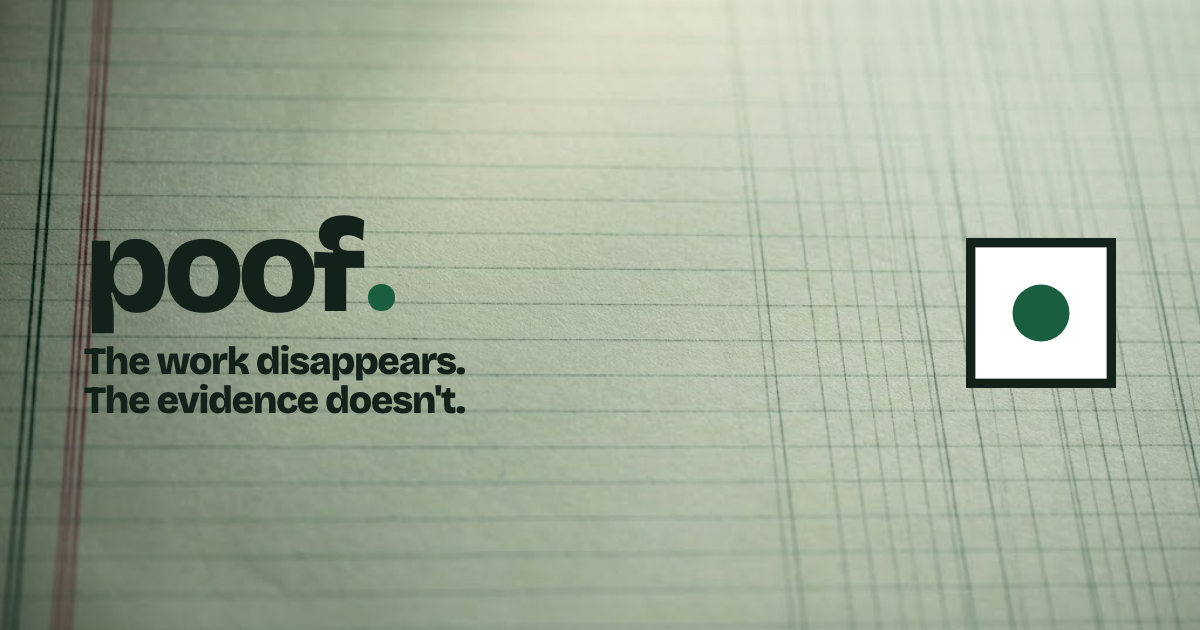
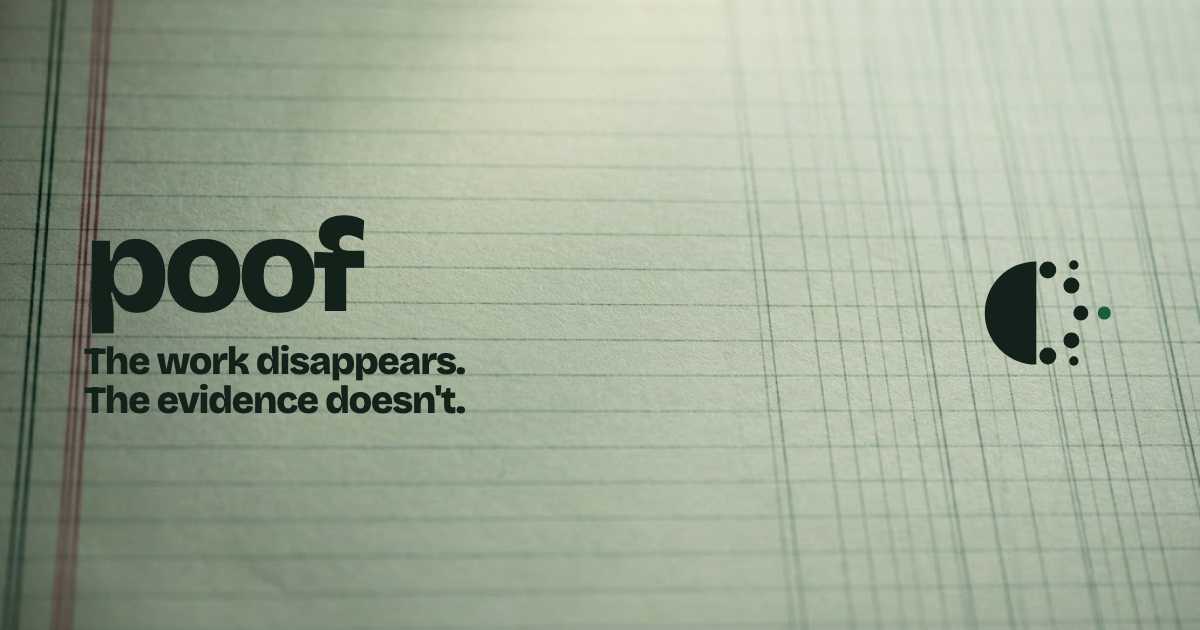
The mark is the dispersing disc (#7)
A half disc whose right side breaks into seven particles on clean spokes,
and one green particle standing alone at the far edge. The wordmark loses
its period; the mark carries the sentence. Favicons, Apple touch icon,
192/512, maskable icon, and the OG image regenerated from the master SVG.
Brand kit's Logo Usage rewritten with the exact geometry.

Changed region(s): [[0.8017, 0.3619, 0.9558, 0.6333], [0.3083, 0.4524, 0.3392, 0.5127]]

diff --git a/src/components/PoofMark.tsx b/src/components/PoofMark.tsx
@@ -1,15 +1,22 @@
 /**
- * The mark: a full stop, boxed. Hard-cornered square outline in ink, centered ledger-green dot
- * about 38% of the box. Same geometry as the app's PoofMark (viewBox 64, rect 2..62, r 12.16).
+ * The mark: a disc dispersing into particles, and one green particle that stayed.
+ * "The work disappears. The evidence doesn't."
+ * Geometry on a 64 grid, identical to public/poof-mark.svg and the app's PoofMark.
  */
 export default function PoofMark({ size = 24, onInk = false, className = '' }: { size?: number; onInk?: boolean; className?: string }) {
-  const stroke = onInk ? '#EEF2EA' : '#12211A'
-  const dot = onInk ? '#A9D8B8' : '#1B5E3F'
-  const fill = onInk ? '#12211A' : '#FFFFFF'
+  const c = onInk ? '#E8EFE9' : '#12211A'
+  const a = onInk ? '#A9D8B8' : '#1B5E3F'
   return (
     <svg width={size} height={size} viewBox="0 0 64 64" className={className} aria-hidden="true" focusable="false">
-      <rect x="2" y="2" width="60" height="60" fill={fill} stroke={stroke} strokeWidth="4" />
-      <circle cx="32" cy="32" r="12.16" fill={dot} />
+      <path d="M30 10 A22 22 0 0 0 30 54 Z" fill={c} />
+      <circle cx="34.92" cy="13.65" r="3.6" fill={c} />
+      <circle cx="44.97" cy="20.30" r="3.4" fill={c} />
+      <circle cx="49" cy="32" r="3.2" fill={c} />
+      <circle cx="44.97" cy="43.70" r="3.4" fill={c} />
+      <circle cx="34.92" cy="50.35" r="3.6" fill={c} />
+      <circle cx="46.01" cy="11.51" r="2" fill={c} />
+      <circle cx="46.01" cy="52.49" r="2" fill={c} />
+      <circle cx="59" cy="32" r="2.8" fill={a} />
     </svg>
   )
 }

diff --git a/src/components/PoofWordmark.tsx b/src/components/PoofWordmark.tsx
@@ -1,29 +1,40 @@
 import Link from 'next/link'
+import PoofMark from './PoofMark'
 
 /**
- * The wordmark: lowercase "poof" in Bricolage Grotesque 800 with a DRAWN period,
- * the same circle as the mark's dot. Never typeset the period (Bricolage's is an oval).
+ * The lockup: the dispersing-disc mark, then "poof" in Bricolage Grotesque 800.
+ * No typed period; the mark carries the sentence.
  */
 export default function PoofWordmark({
   size = 28,
   onInk = false,
   href = '/',
   className = '',
+  markOnly = false,
 }: {
   size?: number
   onInk?: boolean
   href?: string | null
   className?: string
+  markOnly?: boolean
 }) {
-  const mark = (
-    <span className={`poof-wm ${onInk ? 'on-ink' : ''} ${className}`} style={{ fontSize: size }} aria-label="Poof">
-      poof<span className="dot">.</span>
+  const lockup = (
+    <span className={`inline-flex items-center gap-[0.32em] ${className}`} style={{ fontSize: size }} aria-label="Poof">
+      <PoofMark size={Math.round(size * 1.15)} onInk={onInk} />
+      {!markOnly && (
+        <span
+          className={`font-display font-extrabold leading-[0.9] tracking-[-0.05em] ${onInk ? 'text-paper' : 'text-ink'}`}
+          style={{ fontSize: size }}
+        >
+          poof
+        </span>
+      )}
     </span>
   )
-  if (!href) return mark
+  if (!href) return lockup
   return (
     <Link href={href} className="inline-flex items-center" aria-label="Poof home">
-      {mark}
+      {lockup}
     </Link>
   )
 }

diff --git a/BRAND_KIT.md b/BRAND_KIT.md
@@ -204,57 +204,67 @@ The violet → indigo → teal gradient, gradient text, the sparkle icon and its
 
 ## Logo Usage
 
-Poof has two marks: the **wordmark** (the word, set in type, with a drawn period) and the **mark** (a full stop, boxed). Neither is a picture of the word. The wordmark is a component, not an image file.
+> **Decided 2026-09-17.** The boxed full stop and the drawn period are retired. Poof's mark is **the dispersing disc**: a solid half disc whose right side breaks into particles, and one green particle that stayed. The wordmark is the word alone, with no period; the mark carries the sentence.
 
-### The Wordmark
-Lowercase **poof** in Bricolage Grotesque 800, ink on paper. The period is the only colored element, and it is drawn, not typed.
-
-| Property | Value |
-|---|---|
-| **Word** | `poof` — lowercase, always |
-| **Font** | Bricolage Grotesque, weight 800 |
-| **Tracking** | -0.05em |
-| **Line-height** | 0.9 |
-| **Color** | Ink `#12211A` on paper; paper `#EEF2EA` when on ink |
-| **The period** | Drawn: a circle 0.2em wide, sitting on the baseline, 0.07em after the *f*, filled ledger green `#1B5E3F` (light green `#A9D8B8` when the wordmark is on ink) |
-| **Desktop header** | 28px |
-| **Phone header** | 22px |
-| **Auth pages** | 44px |
-| **Footer** | 26px |
-
-- **Bricolage's own full stop is an oval and must not be used.** Never type `poof.`; the component draws the dot.
-- The period is the story — *Poof. It's done.* The work vanishes and the dot is what stays. That is why it is green, and why it is the only color in the word.
-- In running text, **Poof** is capitalized as a word ("Poof prepares the invoice"). The wordmark is not.
+Poof has a **mark** (the dispersing disc) and a **wordmark** (the word, set in type). The lockup is the mark beside the word. The wordmark is a component, not an image file; the mark is an SVG.
 
 ### The Mark
-A full stop, boxed. A hard-cornered square outline in ink with a centered ledger-green dot. Two shapes, so it reads at 16px.
+A disc dispersing into particles. *The work disappears. The evidence doesn't.* The solid half is the work; the particles are it leaving; the single green particle at the far edge is what stayed.
 
 | Property | Value |
 |---|---|
 | **viewBox** | `0 0 64 64` |
-| **Box** | `rect` from 2 to 62 (60 × 60), stroke 4, square corners. On paper: ink `#12211A` stroke, white fill. On ink: paper `#EEF2EA` stroke, ink fill |
-| **Dot** | Circle at the center, `r` 12.16 — about 38% of the box. Ledger green `#1B5E3F` on paper; light green `#A9D8B8` on ink |
-| **App icon** | The same mark. Platform rounding produces the rounded version; do not draw one. The maskable icon has the mark inset 14% on paper |
-| **Stamp** | A rubber-stamp impression of the mark is a motif for "Signed." states and print only. It is never the primary mark |
+| **Disc** | Half disc, center (30, 32), radius 22, flat edge at x = 30, filled ink `#12211A` (paper `#E8EFE9` when on ink) |
+| **Main particles** | Five, on an arc of radius 19 about the disc center at −75°, −38°, 0°, 38°, 75°; radii 3.6 / 3.4 / 3.2 / 3.4 / 3.6 |
+| **Trailers** | Two, on an arc of radius 26 at ±52°, radius 2.0 |
+| **The survivor** | One particle at (59, 32), radius 2.8, ledger green `#1B5E3F` (light green `#A9D8B8` on ink). It is the only colored element and it never touches another particle |
+| **Spacing rule** | No particle overlaps another; every gap is at least 1 unit. The survivor stands alone past everything |
+| **Mono** | When one color is available, the survivor is ink like the rest |
+| **App icon** | The mark on an ink tile, inset 6 units. The maskable icon is inset 9 units |
+| **Favicon** | The mark alone on transparent; 16 and 32 px PNGs, and `favicon.ico` carrying both |
+
+### The Wordmark
+Lowercase **poof** in Bricolage Grotesque 800, ink on paper. **No period.** The mark is the period.
+
+| Property | Value |
+|---|---|
+| **Word** | `poof` — lowercase, always, no punctuation |
+| **Font** | Bricolage Grotesque, weight 800 |
+| **Tracking** | -0.05em |
+| **Line-height** | 0.9 |
+| **Color** | Ink `#12211A` on paper; paper `#EEF2EA` when on ink |
+| **Lockup** | The mark, at 1.15× the type size, then a gap of 0.32em, then the word. Mark and word share a vertical center |
+| **Desktop header** | 28px type (mark 32px) |
+| **Phone header** | 22px type (mark 25px) |
+| **Auth pages** | 44px type |
+| **Footer** | 26px type |
+
+- In running text, **Poof** is capitalized as a word ("Poof prepares the invoice"). The wordmark is not.
+- The word alone, without the mark, is allowed where the mark already appears nearby (a favicon beside a header title, a stamp).
 
 ### Clear Space and Pairing
-- Minimum clear space around either mark: **the height of the o.**
-- The wordmark and the mark are not locked up into one unit. They appear together only when one is the icon and the other is the name — a favicon beside a header, the OG image.
-- The mark is also the assistant's icon. There is no other icon for Poof.
+- Minimum clear space around the lockup or the mark alone: **the height of the o.**
+- The mark is also the assistant's icon and the only icon for Poof.
+- On social banners and the OG image the mark sits at the right edge, the wordmark and sentence at the left; they are not joined.
 
 ### Do's and Don'ts
-- **Do** set the wordmark ink on paper or paper on ink. Those are the only two.
-- **Do** let the period be the only colored element. The word itself is never green.
-- **Do** use the component (`PoofWordmark`) or the SVG (`poof-mark.svg`) — never a screenshot, never a re-typed version.
-- **Don't** put either mark on a photograph, a gradient, or a busy background.
-- **Don't** type the period. Bricolage's full stop is an oval.
-- **Don't** pair the wordmark with the old swirl or sparkle, or with any icon other than the mark.
-- **Don't** stretch, outline, shadow, tint, or animate either mark.
+- **Do** set the lockup ink on paper or paper on ink. Those are the only two.
+- **Do** keep the survivor the only colored element. The disc and the other particles are never green.
+- **Do** use the component (`PoofWordmark`, `PoofMark`) or the SVG (`poof-mark.svg`) — never a screenshot, never a re-drawn version.
+- **Don't** type a period after poof.
+- **Don't** put the mark on a photograph, a gradient, or a busy background.
+- **Don't** pair the wordmark with the old swirl, the sparkle, or the boxed dot.
+- **Don't** stretch, outline, shadow, tint, rotate, or add particles to the mark. The particle count and positions are fixed.
+- **Don't** animate the mark on the site. The vanish on the homepage is the one animation; the mark stays still.
 
 ### Where the Components Live
 
-| Surface | Wordmark | Mark | Notes |
+| Surface | Lockup | Mark | Notes |
 |---|---|---|---|
+| Website (`poof-website2`) | `src/components/PoofWordmark.tsx` | `src/components/PoofMark.tsx`, `public/poof-mark.svg`, `public/poof-mark-on-ink.svg` | Favicons, app icons, and `og-image.png` are generated from the SVG |
+| App (`apps/poof-web`) | `PoofWordmark` | `PoofMark`, `public/poof-mark.svg` | Same geometry; colors from `src/theme/shared-theme.ts` |
+
+---|---|---|---|
 | Website (`poof-website2`) | `src/components/PoofWordmark.tsx` | `src/components/PoofMark.tsx` | The CSS class `.poof-wm` in `src/app/globals.css` sets the face, tracking, and draws the period; `.on-ink` flips it |
 | App (`apps/poof-web`) | `PoofWordmark` | `PoofMark` | Same geometry; colors come from `src/theme/shared-theme.ts` |
 
@@ -1067,6 +1077,12 @@ dashboard, and the Firm Console (planned, on hold, nothing built).
 ---
 
 ## Changelog
+
+### September 17, 2026 — the mark is the dispersing disc
+- **The boxed full stop and the drawn period are retired.** Austin rejected the dot-in-a-box ("just a dot, not creative at all") and two further rounds of period-shaped and pictorial marks, then wrote his own brief: abstract, geometric, the vanish built into the form. Of six geometric directions and six iterations on the disc, he chose **D1, the dispersing disc**: a half disc whose right side breaks into seven particles on clean spokes, and one green particle standing alone at the far edge.
+- **The wordmark loses its period.** `poof`, no punctuation; the mark carries the sentence. The lockup is mark, gap, word.
+- Assets regenerated from the master SVG: favicon (16/32, ico), Apple touch icon, 192/512, maskable, the OG image, and the six social banners. The app receives the same SVG and geometry.
+- Logo Usage section rewritten with the exact geometry so no one redraws it by eye.
 
 ### September 15, 2026 (later) — the ledger-green rebrand
 - **Identity.** The violet "magical" brand is retired. The idea is now one sentence — *"The work
